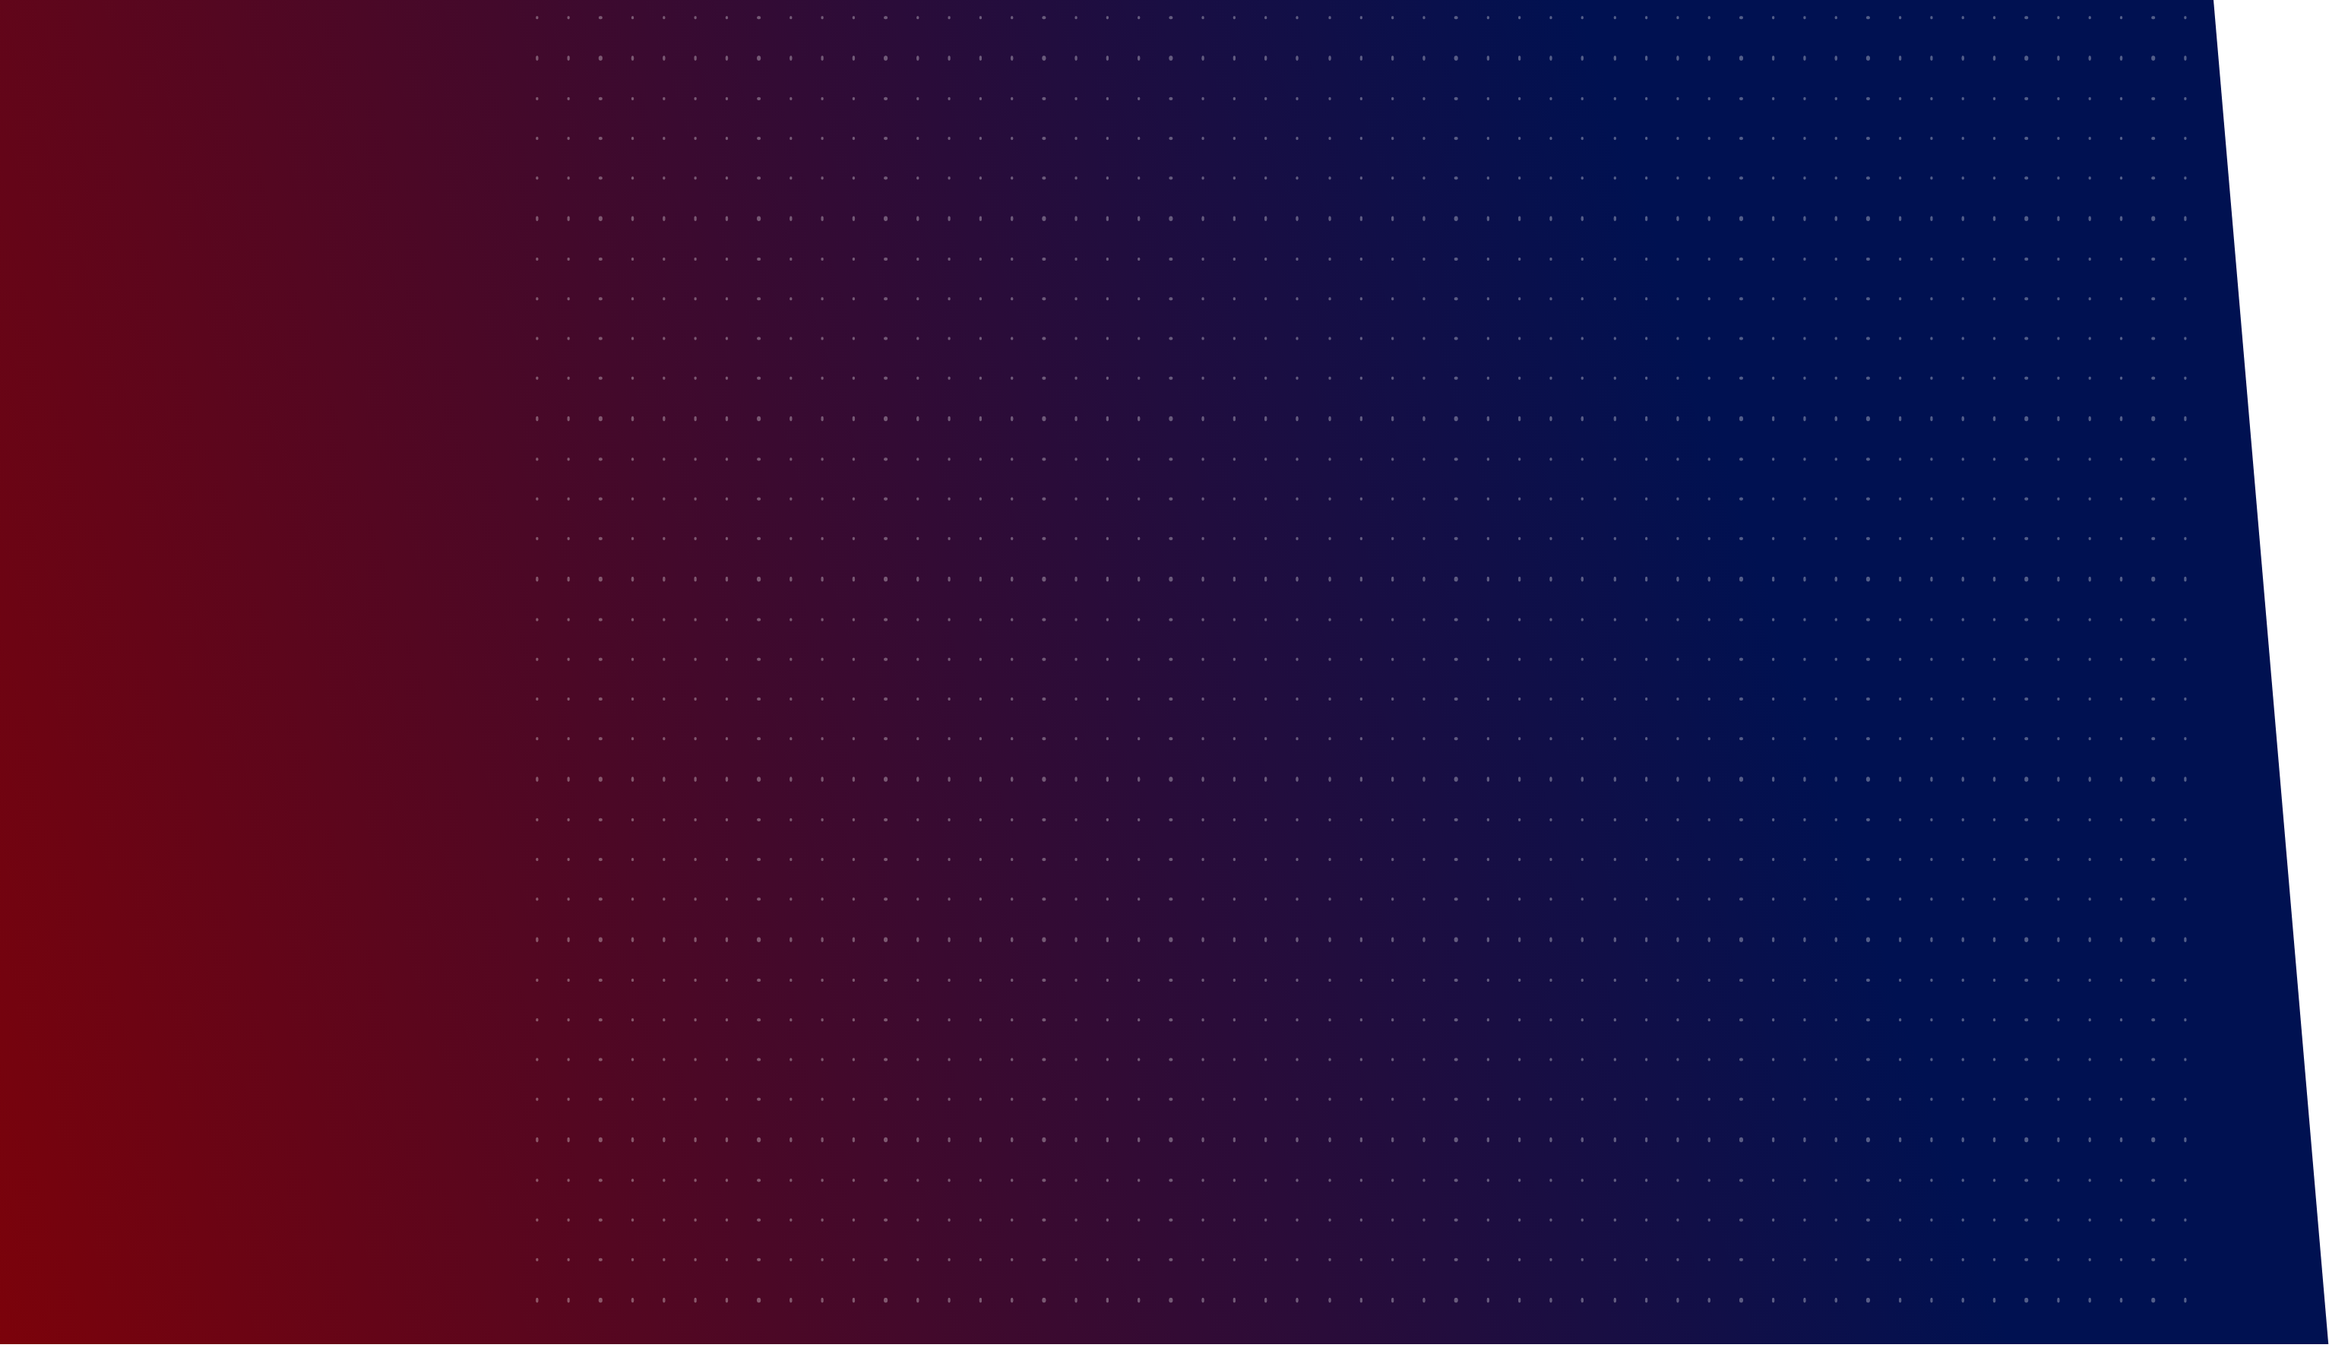
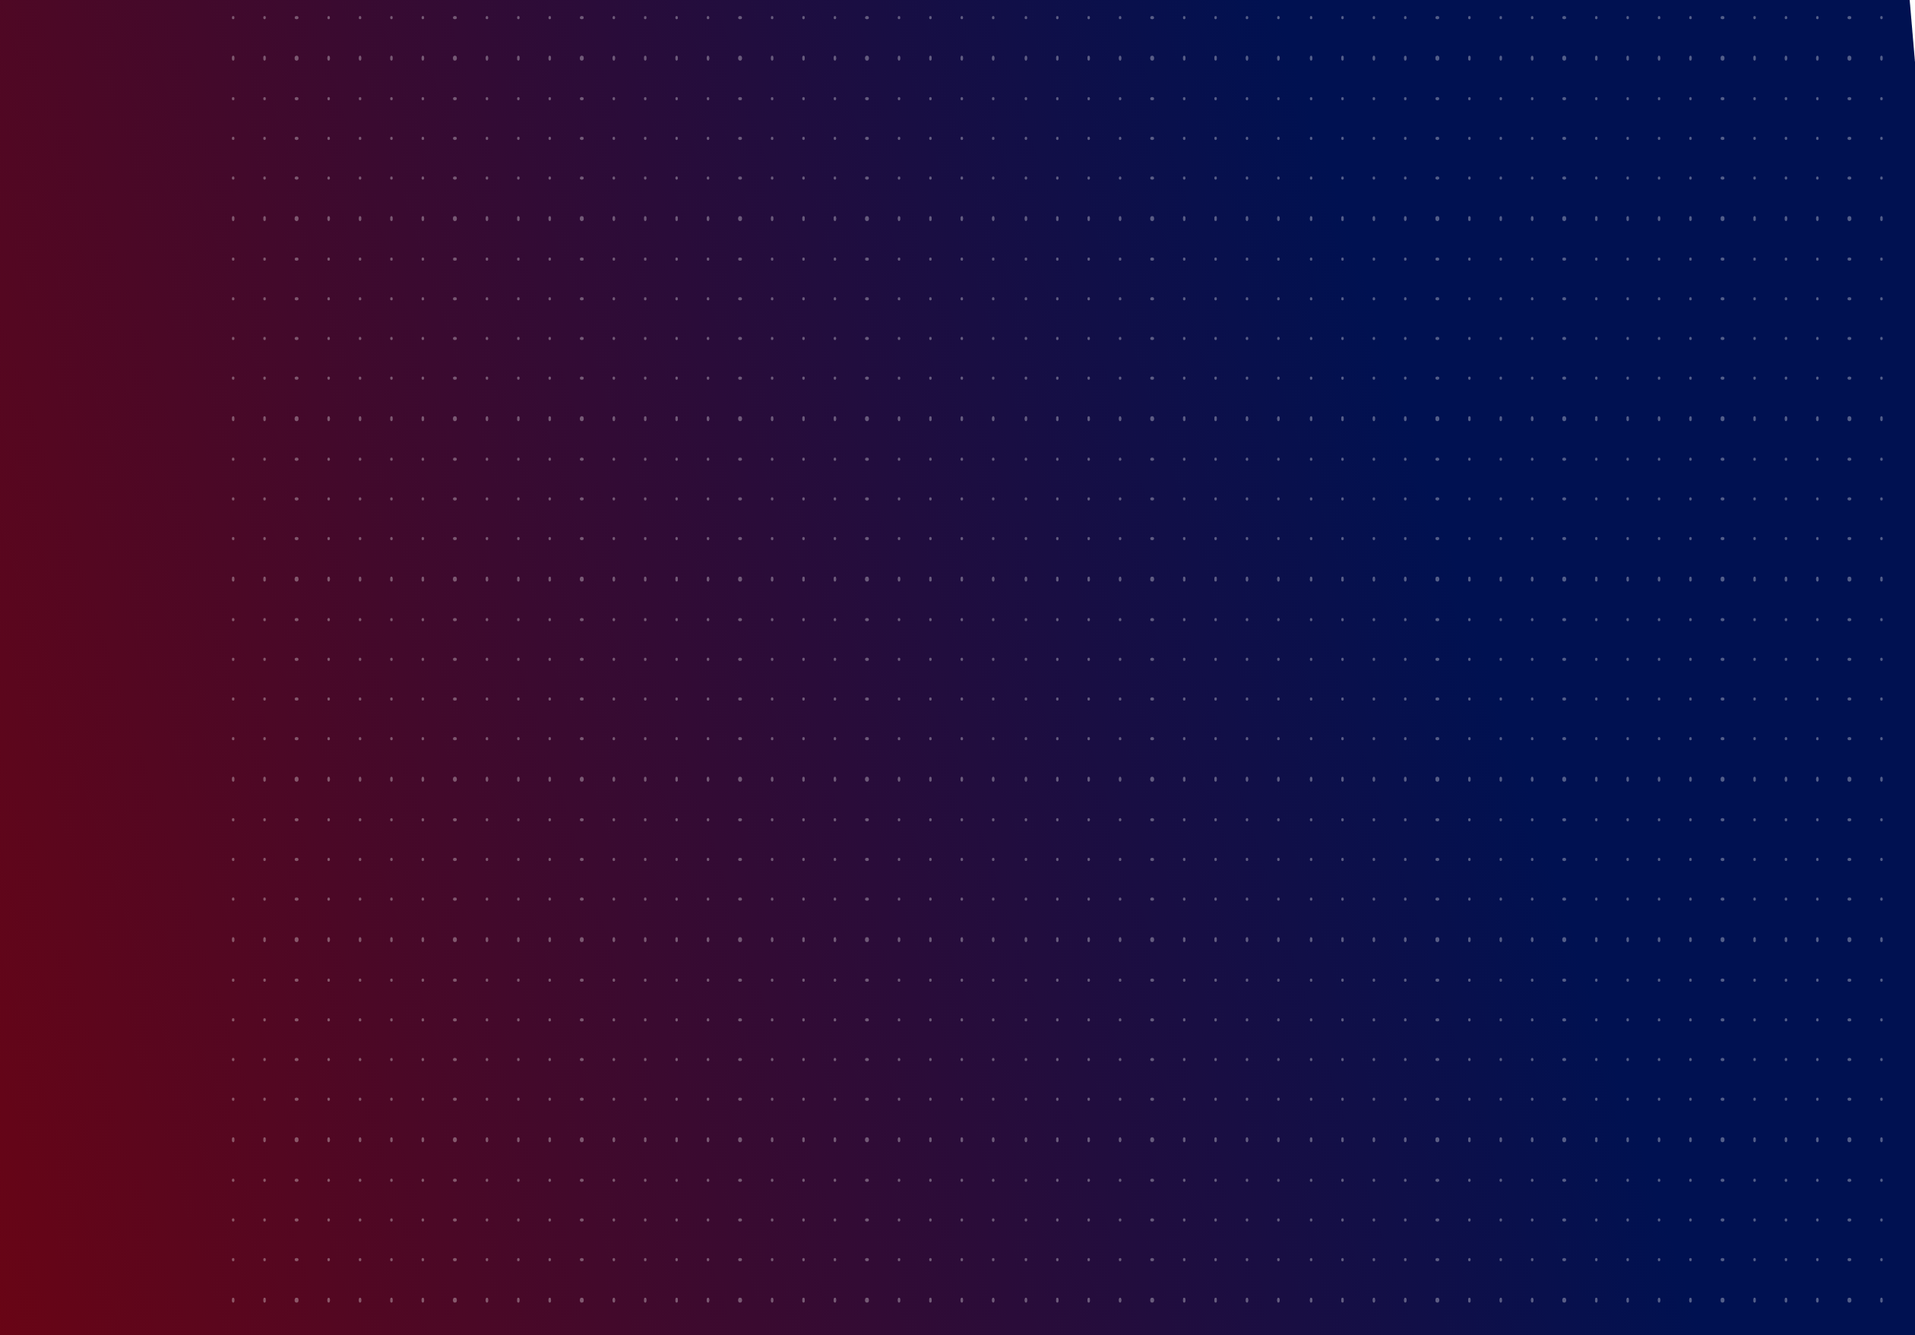
ui changes

Changed region(s): [[0.0, 0.0, 1.0, 1.0]]

diff --git a/src/Containers/HomePageHow.js b/src/Containers/HomePageHow.js
@@ -2,7 +2,7 @@ import React from 'react'
 import Cards from '../Components/Cards';
 import { makeStyles} from '@material-ui/core/styles';
 import {Grid} from '@material-ui/core';
-import Background from '../images/background.png'
+import Background from '../images/backgroundold.png'
 import PickTheme from '../images/comic.png';
 import MoniterImage from '../images/commerce-and-shopping.png';
 import Subscriptionimage from '../images/subscription(1).png';
@@ -15,7 +15,7 @@ const useStyles = makeStyles((theme) => ({
     },
     paper: {
       width:"80%",
-      height:400,
+      height:380,
       margin:theme.spacing(5),
       textAlign: 'center',
       backgroundColor:"rgba(0, 0, 0, 0.5)",
@@ -48,7 +48,10 @@ const useStyles = makeStyles((theme) => ({
 export default function HomePageSignup() {
     const classes = useStyles();
     const Headings = ['Pick Your Theme(s)','Select Monthly Plans','Checkout and Enjoy'];
-    const SubHeadings =["Lorem ipsum dolor sit amet, consectetur adipiscing elit. Donec tincidunt nec velit ac feugiat."];
+    const SubHeadings =["Choose which theme(s) interst you and we will customize Your Mystry Power Box",
+                        "Go month to month and save money with 3 or 6 months plan",
+                        "In a few weeks you  monthly Power Box will be on its way."
+];
     return (
         <section id={'section1'}>
             <div  style={{backgroundImage:`url(${Background})`}} className="homepageSignup">
@@ -56,8 +59,9 @@ export default function HomePageSignup() {
                 <Grid item sm={3} md={3} lg={3} xl={3} ></Grid>
                 <Grid item sm={6} md={6} lg={6} xl={6} >
                     <h1 className="textSignup" >Here's How It Works!</h1>
-                    <p className={classes.paperSubHeader} style={{textAlign:'justify',margin:'auto',width:"80%"}}>“We ship all orders around the 10th of the month. When you sign up before the end of the month, you will get the following month’s mystery power box around the 10th of the following month. </p>
-                    <p className={classes.paperSubHeader} style={{textAlign:'justify',margin:'auto',width:"80%"}}>Quality is is our #1 goal! Every mystery power box will be hand selected with the hottest new items each month. Choose one or more of our three themes that interest you and we will customize the items we include in your box</p>
+                    <p className={classes.paperSubHeader} style={{textAlign:'justify',margin:'auto',width:"80%"}}>We ship all orders around the 10th of the month. When you sign up before the end of the month, you will get the following month’s mystery power box around the 10th of the following month. </p>
+                    <p></p>
+                    <p className={classes.paperSubHeader} style={{textAlign:'justify',margin:'auto',width:"80%"}}>Quality is our #1 goal! Every mystery power box will be hand selected with the hottest new items each month. Choose one or more of our three themes that interest you and we will customize the items we include in your box</p>
                     {/* <p className={classes.paperSubHeader} style={{textAlign:'justify'}}>Lorem ipsum dolor sit amet, consectetur adipiscing elit. Donec tincidunt nec velit ac feugiat. Maecenas nibh magna, cursus pretium pulvinar non Maecenas nibh magna, pulvinar cursus pretium non</p> */}
                 </Grid>
                 <Grid item sm={3} md={3} lg={3} xl={3} ></Grid>

diff --git a/src/Containers/HomePagePlans.js b/src/Containers/HomePagePlans.js
@@ -13,7 +13,7 @@ const useStyles = makeStyles((theme) => ({
     },
     paper: {
       width:"80%",
-      height:400,
+      height:450,
       margin:theme.spacing(5),
       textAlign: 'center',
       backgroundColor:"rgba(0, 0, 0, 0.5)",
@@ -37,7 +37,8 @@ export default function HomePagePlans(props) {
     const classes = useStyles();
     const Headings =['1 Month Plan','3 Months Plan','6 Months Plan'];
     return (
-        <div>
+        <section id={'planSection'}>
+            <div>
             <Grid container justify="center">
                 <Grid item sm={3} md={3} lg={3} xl={3} ></Grid>
                 <Grid item sm={6} md={6} lg={6} xl={6} >
@@ -60,9 +61,9 @@ export default function HomePagePlans(props) {
                             <p className="planList">
                                 <h2>1 Month Plan</h2>
                                 <ul>
-                                    <li>Enjoy One Month</li>
-                                    <li>Enjoy One Month</li>
-                                    <li>Enjoy One Month</li>
+                                    <li>Recurring 1 Month Plan</li>
+                                    <li>Select desired box theme(s)</li>
+                                    <li>Cancel Anytime</li>
                                 </ul>
                             </p>
                         </Grid>
@@ -78,9 +79,9 @@ export default function HomePagePlans(props) {
                         <p className="planList">
                                 <h2 style={{maginBottom:'5px'}}>3 Months Plan</h2>
                                 <ul>
-                                    <li>Enjoy One Month</li>
-                                    <li>Enjoy One Month</li>
-                                    <li>Enjoy One Month</li>
+                                    <li>Recurring 3 Months Plan</li>
+                                    <li>Select desired box theme(s)</li>
+                                    <li>You save $1.5 per month</li>
                                 </ul>
                             </p>
                         </Grid>
@@ -96,9 +97,9 @@ export default function HomePagePlans(props) {
                         <p className="planList">
                                 <h2>6 Months Plan</h2>
                                 <ul>
-                                    <li>Enjoy One Month</li>
-                                    <li>Enjoy One Month</li>
-                                    <li>Enjoy One Month</li>
+                                    <li>Recurring 6 Months Plan</li>
+                                    <li>Select desired box theme(s)</li>
+                                    <li>You save $3 per month</li>
                                 </ul>
                             </p>
                         </Grid>
@@ -110,5 +111,6 @@ export default function HomePagePlans(props) {
                 </Grid>
             </Grid>
         </div>
+        </section>
     )
 }

diff --git a/src/Containers/HomePageCover.js b/src/Containers/HomePageCover.js
@@ -24,7 +24,17 @@ const useStyles = makeStyles((theme) => ({
     },
     coverImageSmall:{
         marginLeft:'-15px',width:"400px"
-    }
+    },
+    buttons:{
+        backgroundImage: "linear-gradient(to right, #04104e, #890103)",
+        fontWeight:'700',
+        height:'37px',
+        marginBottom:'15px',
+        width:'350px',
+        color:'white',
+        borderRadius:'5px',
+        border:'unset'
+      },
   }));
 
 
@@ -37,9 +47,12 @@ export default function HomePageCover(props) {
                 </Grid>
                 <Grid  item  xs={12} sm={12} md={5} lg={5} xl={5}>
                     <div className={props.viewWidth>=960?"":"textCover"}>
-                        <h1 style={{marginBottom:'-20px',marginTop:'50px',color:'#04104e'}}>Welcome To</h1>
+                        <h1 style={{marginBottom:'-20px',marginTop:'50px',color:'#04104e',fontFamily:"poppins"}}>Welcome To</h1>
                         <img src={AstroBox}  className={props.viewWidth>=960?classes.coverImage:classes.coverImageSmall}></img>
-                        <p style={{width:"350px",textAlign:'justify',color:'#04104e'}}>Quality is is our #1 goal! Every mystery power box will be hand selected with the hottest new items each month. Choose one or more of our three themes that interest you and we will customize the items we include in your box</p>
+                        <p style={{width:"350px",textAlign:'justify',color:'#04104e'}}>"Whether you are a gamer, comic fanatic or anime fan, we have got a box for you"</p>
+                        <p style={{width:"350px",textAlign:'justify',color:'#04104e'}}>We make a bundle of Collectibles, figures , comics and more, that will be delivered
+                         to your door every month. Each box will be a hand picked suprise of Awesomeness</p>
+                         <a href="/subscription"><input className={classes.buttons} value="Pick A Plan" type="button"></input></a>
                     </div>
                 </Grid>
                 <Grid  item  xs={12} sm={12} md={6} lg={6} xl={6}>

diff --git a/src/Components/SubscriptionPlanCards.js b/src/Components/SubscriptionPlanCards.js
@@ -39,7 +39,8 @@ const useStyles = makeStyles((theme) => ({
       },
       buttons:{
         backgroundColor:"#e80644",
-        width:'125px',
+        width:'110px',
+        margin:'5px',
         borderRadius:"25px",
         fontWeight:'700',
         height:'37px',
@@ -134,14 +135,21 @@ export default function PlanCards(props) {
                 </Grid>
                 <Grid item lg={6} md={6} sm={6} xs={6} >
                     <h1 className={classes.headerPrice}>{props.price}</h1>
+                    {
+                      props.selected!=null?<Button style={{textTransform:'initial'}} className={classes.buttons} variant="contained" color="primary">
+                        Cancel
+                    </Button>:
                     <StripeCheckout
-                        className={"checkoutButtonSub"}
-                        stripeKey="pk_test_4TbuO6qAW2XPuce1Q6ywrGP200NrDZ2233"
-                        amount={product.price * 100}
-                        name="Subscription"
-                        billingAddress
-                        shippingAddress
-                    />
+                    className={"checkoutButtonSub"}
+                    stripeKey="pk_test_4TbuO6qAW2XPuce1Q6ywrGP200NrDZ2233"
+                    amount={product.price * 100}
+                    name="Subscription"
+                    billingAddress
+                    shippingAddress
+                />
+                    }
+                    
+                    
                 </Grid>
             </Grid>
             </Paper>

diff --git a/src/Pages/SubscriptionPage.js b/src/Pages/SubscriptionPage.js
@@ -77,10 +77,21 @@ const useStyles = makeStyles((theme) => ({
         fontWeight:'700',
         height:'37px',
         marginBottom:'25px',
-        width:'80%',
+        width:'83%',
         color:'white',
         borderRadius:'5px',
         marginLeft:'15%',
+        border:'unset'
+      },
+      buttonEdit:{
+        backgroundColor:"#000745",
+        fontWeight:'700',
+        height:'37px',
+        marginBottom:'25px',
+        marginTop:"25px",
+        width:'95%',
+        color:'white',
+        borderRadius:'5px',
         border:'unset'
       },
   }));
@@ -170,6 +181,16 @@ export default function Subscription() {
                                     <textarea value="Jhons Account" className={useWindowSize()[0]>=960?classes.textAreas:classes.textAreasSmall}/>
                                 </Grid>
                                 <Grid item lg={1} md={1} sm={12} xs={10} >
+                                </Grid>
+
+                                {/* Fourth Row */}
+
+                                <Grid item lg={3} md={3} sm={12} xs={10} >
+                                </Grid>
+                                <Grid item lg={6} md={6} sm={12} xs={12} >
+                                <input className={classes.buttonEdit} type="submit" value="Edit"/>
+                                </Grid>
+                                <Grid item lg={3} md={3} sm={12} xs={10} >
                                 </Grid>  
                         </Grid>
                     </Grid>

diff --git a/src/Components/Header.js b/src/Components/Header.js
@@ -101,11 +101,9 @@ export default function Header() {
       <MenuItem>
       <Typography className="headerLinks"><a href="/#section1">How It Works</a></Typography>
       </MenuItem>
-      <Link style={{textDecoration:"none"}} to="/subscription">
       <MenuItem >
-      <Typography className="headerLinks">Plans</Typography>
+      <Typography className="headerLinks"><a href="/#planSection">Plans</a></Typography>
       </MenuItem>
-      </Link>
     </Menu>
   );
 
@@ -118,7 +116,7 @@ export default function Header() {
           <Hidden smDown>
             <Typography className="headerLinks"><Link to="/login">Login</Link></Typography>
             <Typography className="headerLinks"><a href="/#section1">How It Works</a></Typography>
-            <Typography className="headerLinks"><Link to="/subscription">Plans</Link></Typography>
+            <Typography className="headerLinks"><a href="/#planSection">Plans</a></Typography>
           </Hidden>
           <div className={classes.sectionMobile}>
             <IconButton

diff --git a/src/Pages/LoginPage.js b/src/Pages/LoginPage.js
@@ -1,7 +1,7 @@
 import React, { Component } from 'react';
 import Login from '../Components/Login';
 import Grid from '@material-ui/core/Grid';
-import Background from '../images/background.png';
+import Background from '../images/backgroundold.png';
 import Header from '../Components/Header';
 
 export default class LoginPage extends Component {
@@ -14,7 +14,7 @@ export default class LoginPage extends Component {
                 </Grid>
                 <Grid item lg={4} md={4} sm={12} xs={12} >
                 <h1 className="textLogin" >Account Login</h1>
-                <p className="textLoginP">Don't have an Account? Subscribe to SignUp </p>
+                <p className="textLoginP">Don't have an Account? Subscribe to <a style={{color:"white"}} href="/#planSection">SignUp</a> </p>
                     <Login></Login>
                 </Grid>
                 <Grid item lg={4} md={4} sm={12} xs={12} >

diff --git a/src/App.css b/src/App.css
@@ -1,6 +1,9 @@
 .App {
   text-align: center;
 }
+body{
+  font-family: "poppins";
+}
 
 .App-logo {
   height: 40vmin;
@@ -19,14 +22,14 @@
 .homepageSignup{
   min-height: 100vh;
   background-repeat:no-repeat;
-  background-size:auto;
+  background-size:cover;
   background-position:center;
 }
 
 .homepageSubscription{
-  min-height: 120vh;
+  min-height: 100vh;
   background-repeat:no-repeat;
-  background-size:auto;
+  background-size:cover;
   background-position:center;
 }
 
@@ -109,12 +112,12 @@
 
 .textLogin{
   font-size: 16pt;
-  padding: 20px;
+  padding: 0px;
   text-align: center;
   color: white;
 }
 .textLoginP{
-  padding: 20px;
+  padding: 10px;
   text-align: center;
   color: white;
 }
@@ -133,7 +136,7 @@
 .footer{
   height: 450x;
   background-repeat:no-repeat;
-  background-size:auto;
+  background-size:cover;
   background-position:center;
 }
 .planList{

diff --git a/src/Components/Login.js b/src/Components/Login.js
@@ -16,6 +16,7 @@ const useStyles = makeStyles((theme) => ({
     {
       width:'90%',
       height:'37px',
+      paddingLeft:'15px',
       border:'unset',
       marginLeft:'5%',
       borderRadius:'5px',
@@ -56,8 +57,8 @@ export default function Login() {
             <form noValidate>
               <p style={{paddingTop:'30px'}} className={classes.labels} >Username (E-mail)</p>
               <input className={classes.textFields}/>
-              <p  className={classes.labels}>Name</p>
-              <input  className={classes.textFields}/>
+              <p  className={classes.labels}>Password</p>
+              <input type="password"  className={classes.textFields}/>
               <p className={classes.forgotPassword}>Forgot Password?</p>
               <input className={classes.buttons} type="submit" value="Login"/>
             </form>

diff --git a/public/index.html b/public/index.html
@@ -10,6 +10,7 @@
       content="Web site created using create-react-app"
     />
     <link rel="apple-touch-icon" href="%PUBLIC_URL%/logo192.png" />
+    <link href="https://fonts.googleapis.com/css2?family=Poppins:wght@400&display=swap" rel="stylesheet"> 
     <link rel="stylesheet" href="https://maxcdn.bootstrapcdn.com/font-awesome/4.6.1/css/font-awesome.min.css"> 
     <!--
       manifest.json provides metadata used when your web app is installed on a

diff --git a/src/Components/Cards.js b/src/Components/Cards.js
@@ -6,7 +6,7 @@ export default function Cards(props) {
         <div>
             <Paper elevation={2} className={props.class.paper} >
                 <img 
-                    style={{height:'150px',width:'120px',marginTop:"20%"}}
+                    style={{height:'125px',width:'100px',marginTop:"20%"}}
                     className={props.class.paperImage}
                     src={props.image}> 
                 </img>

diff --git a/src/Components/Footer.js b/src/Components/Footer.js
@@ -1,6 +1,6 @@
 import React from 'react';
 import {Grid} from "@material-ui/core";
-import Background from '../images/background.png';
+import Background from '../images/footerbg.png';
 import FooterImage from '../images/footer.png';
 import Facebook from '../images/facebook.png';
 import Instagram from '../images/instagram.png';
